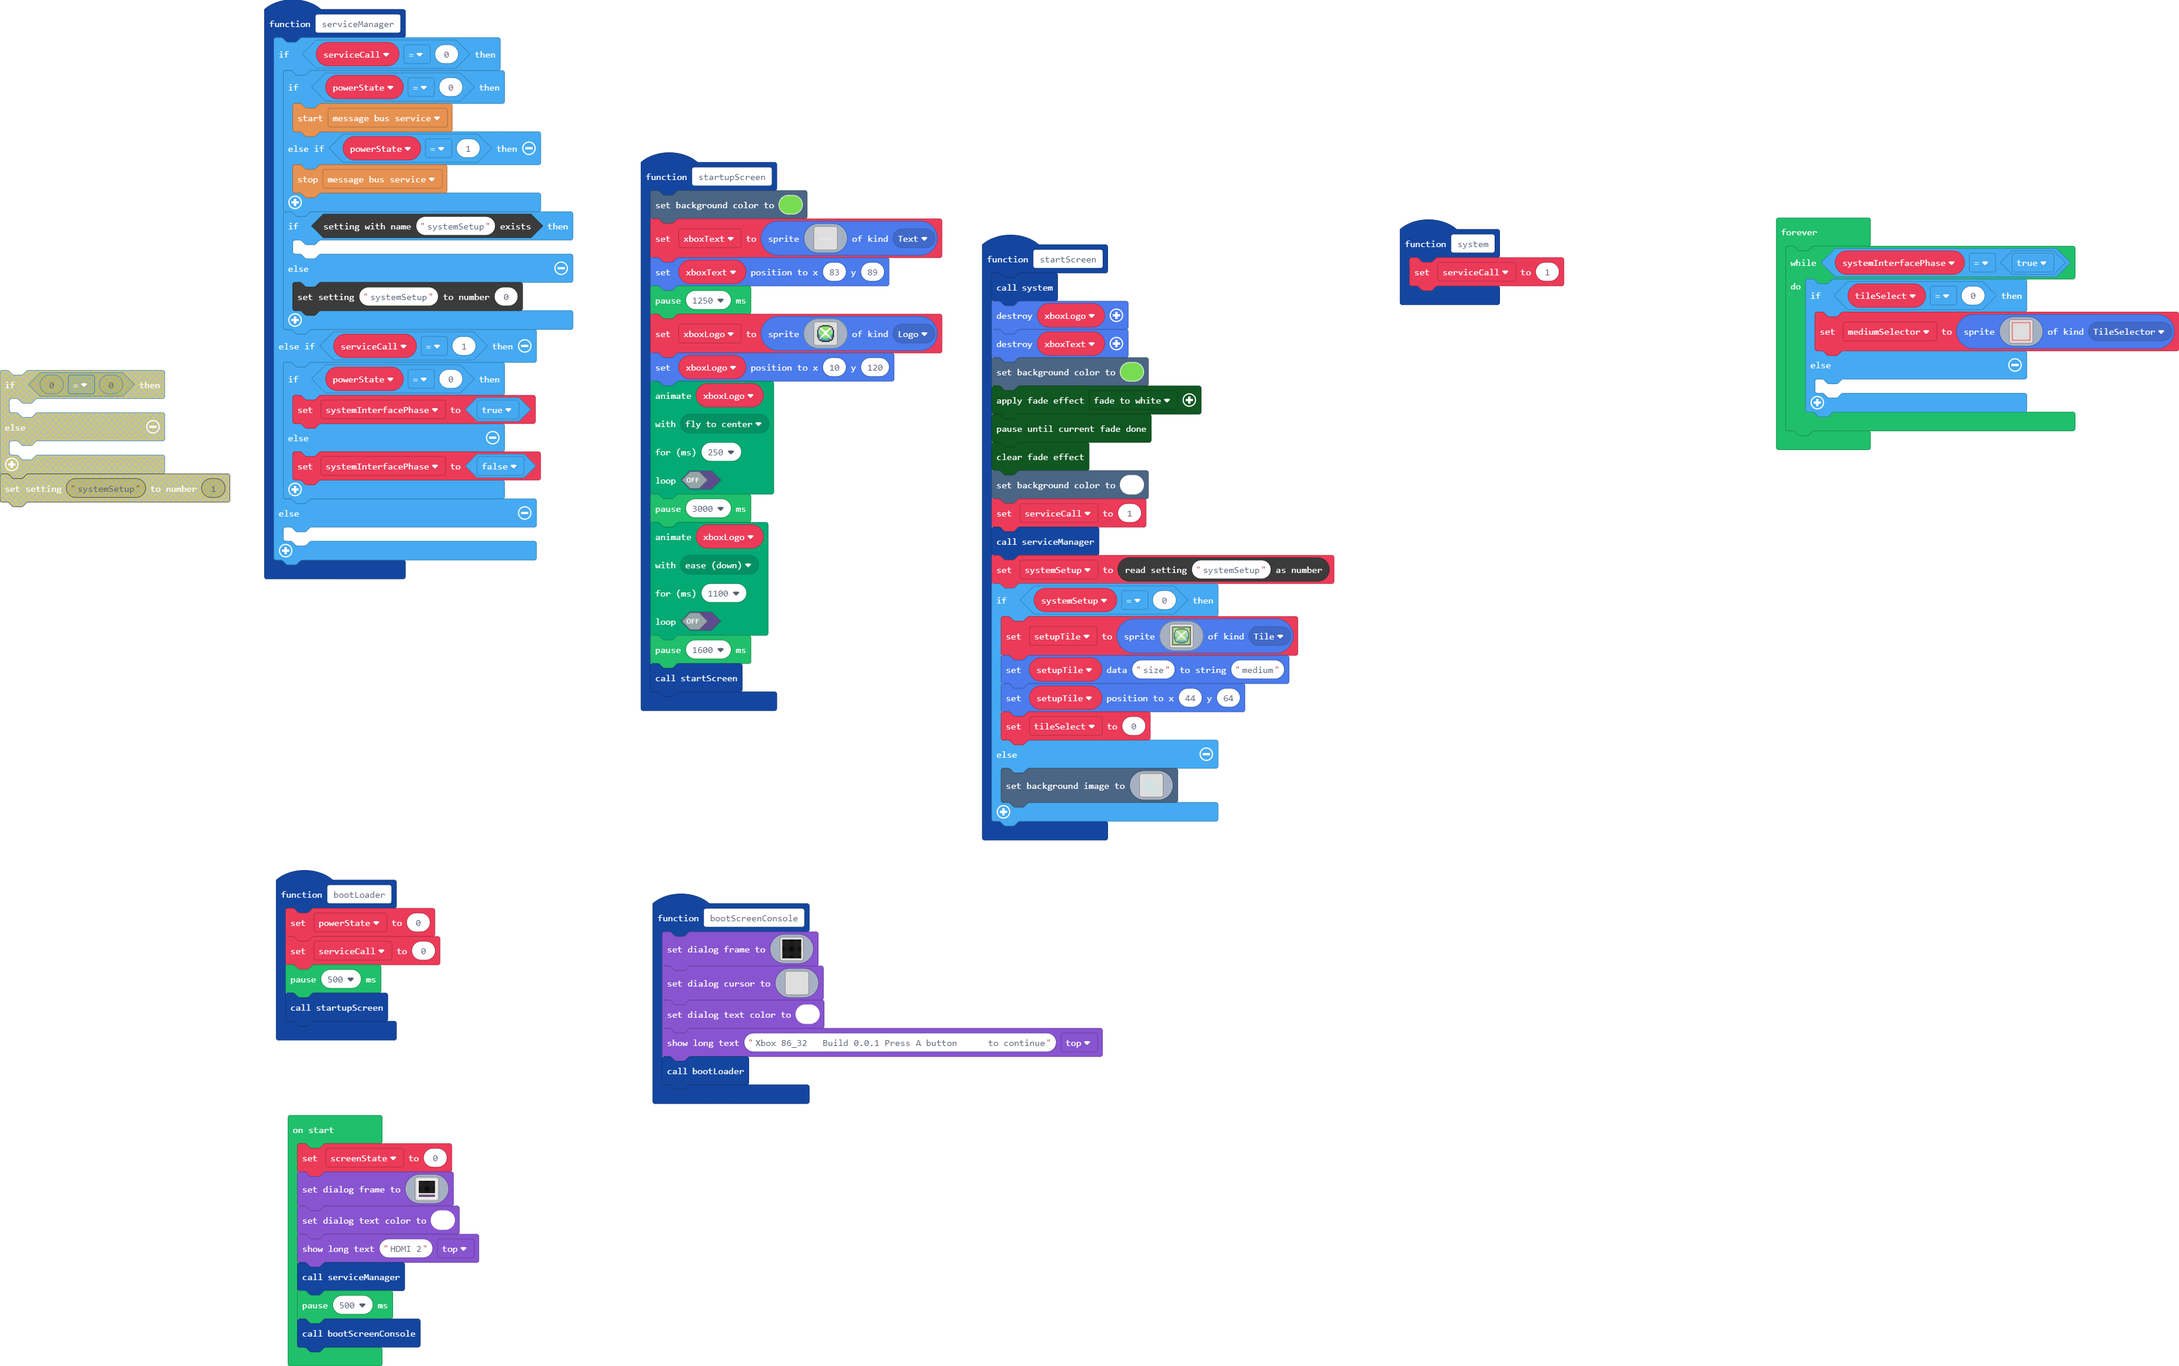
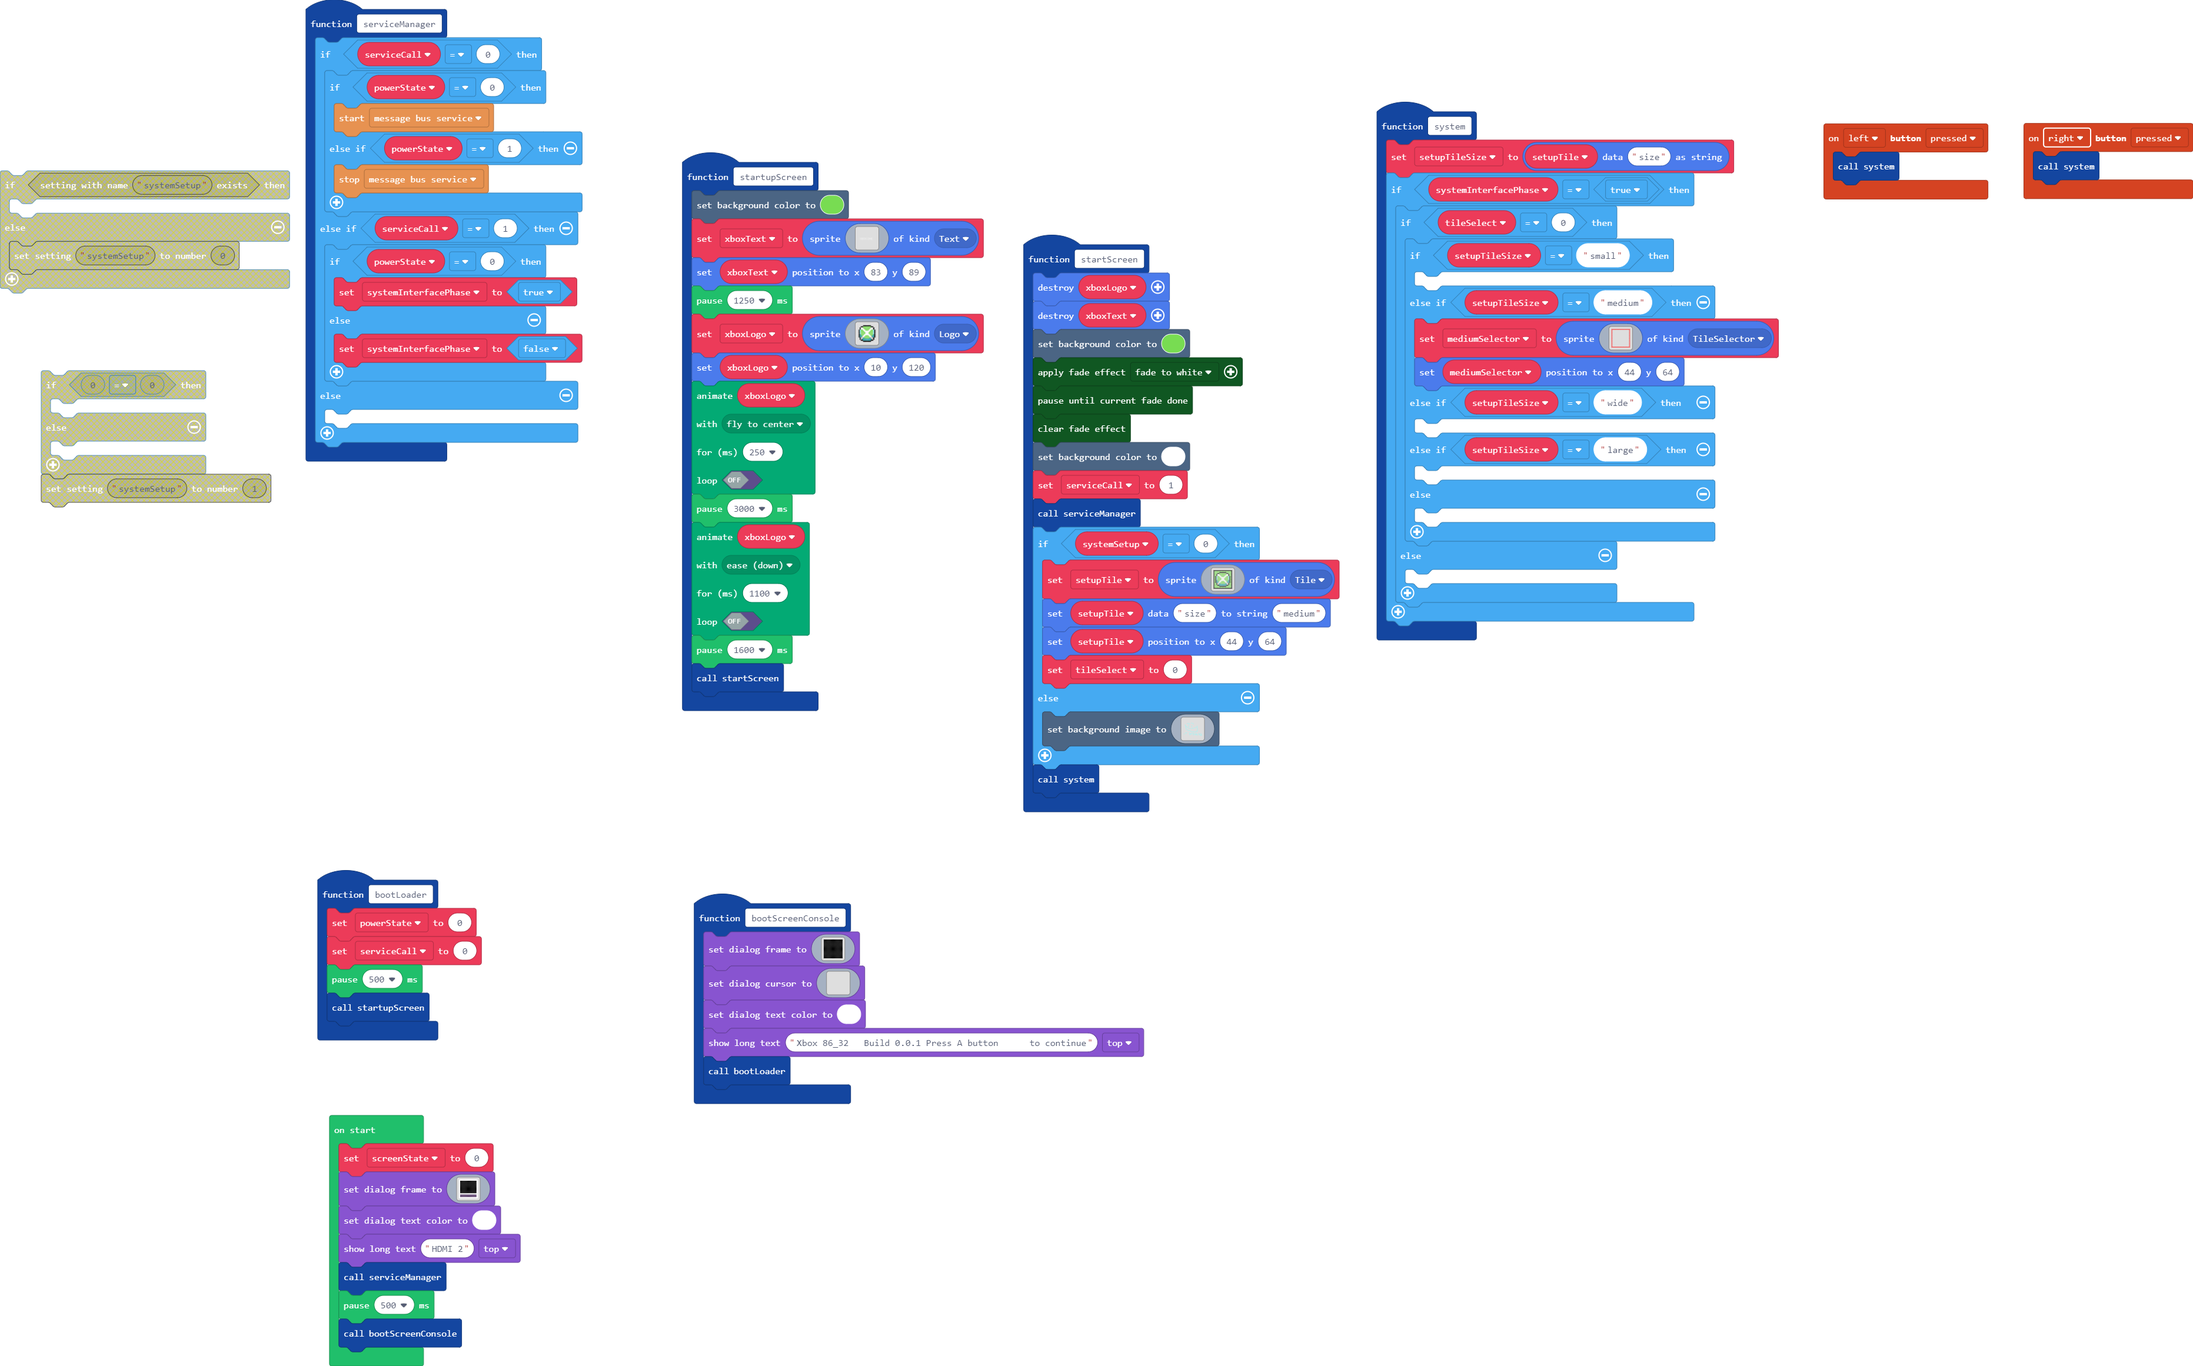
Update main.blocks, main.ts

diff --git a/main.ts b/main.ts
@@ -14,19 +14,93 @@ namespace SpriteKind {
     export const TileSelector = SpriteKind.create()
 }
 function system () {
-    serviceCall = 1
+    setupTileSize = sprites.readDataString(setupTile, "size")
+    if (systemInterfacePhase == true) {
+        if (tileSelect == 0) {
+            if (setupTileSize == "small") {
+            	
+            } else if (setupTileSize == "medium") {
+                mediumSelector = sprites.create(img`
+2 2 2 2 2 2 2 2 2 2 2 2 2 2 2 2 2 2 2 2 2 2 2 2 2 2 2 2 2 2 2 2 2 2 2 2 2 2 2 2 2 2 2 2 2 2 2 2 2 2 2 2 2 2 2 2 2 
+2 2 2 2 2 2 2 2 2 2 2 2 2 2 2 2 2 2 2 2 2 2 2 2 2 2 2 2 2 2 2 2 2 2 2 2 2 2 2 2 2 2 2 2 2 2 2 2 2 2 2 2 2 2 2 2 2 
+2 2 2 2 2 2 2 2 2 2 2 2 2 2 2 2 2 2 2 2 2 2 2 2 2 2 2 2 2 2 2 2 2 2 2 2 2 2 2 2 2 2 2 2 2 2 2 2 2 2 2 2 2 2 2 2 2 
+2 2 2 . . . . . . . . . . . . . . . . . . . . . . . . . . . . . . . . . . . . . . . . . . . . . . . . . . . 2 2 2 
+2 2 2 . . . . . . . . . . . . . . . . . . . . . . . . . . . . . . . . . . . . . . . . . . . . . . . . . . . 2 2 2 
+2 2 2 . . . . . . . . . . . . . . . . . . . . . . . . . . . . . . . . . . . . . . . . . . . . . . . . . . . 2 2 2 
+2 2 2 . . . . . . . . . . . . . . . . . . . . . . . . . . . . . . . . . . . . . . . . . . . . . . . . . . . 2 2 2 
+2 2 2 . . . . . . . . . . . . . . . . . . . . . . . . . . . . . . . . . . . . . . . . . . . . . . . . . . . 2 2 2 
+2 2 2 . . . . . . . . . . . . . . . . . . . . . . . . . . . . . . . . . . . . . . . . . . . . . . . . . . . 2 2 2 
+2 2 2 . . . . . . . . . . . . . . . . . . . . . . . . . . . . . . . . . . . . . . . . . . . . . . . . . . . 2 2 2 
+2 2 2 . . . . . . . . . . . . . . . . . . . . . . . . . . . . . . . . . . . . . . . . . . . . . . . . . . . 2 2 2 
+2 2 2 . . . . . . . . . . . . . . . . . . . . . . . . . . . . . . . . . . . . . . . . . . . . . . . . . . . 2 2 2 
+2 2 2 . . . . . . . . . . . . . . . . . . . . . . . . . . . . . . . . . . . . . . . . . . . . . . . . . . . 2 2 2 
+2 2 2 . . . . . . . . . . . . . . . . . . . . . . . . . . . . . . . . . . . . . . . . . . . . . . . . . . . 2 2 2 
+2 2 2 . . . . . . . . . . . . . . . . . . . . . . . . . . . . . . . . . . . . . . . . . . . . . . . . . . . 2 2 2 
+2 2 2 . . . . . . . . . . . . . . . . . . . . . . . . . . . . . . . . . . . . . . . . . . . . . . . . . . . 2 2 2 
+2 2 2 . . . . . . . . . . . . . . . . . . . . . . . . . . . . . . . . . . . . . . . . . . . . . . . . . . . 2 2 2 
+2 2 2 . . . . . . . . . . . . . . . . . . . . . . . . . . . . . . . . . . . . . . . . . . . . . . . . . . . 2 2 2 
+2 2 2 . . . . . . . . . . . . . . . . . . . . . . . . . . . . . . . . . . . . . . . . . . . . . . . . . . . 2 2 2 
+2 2 2 . . . . . . . . . . . . . . . . . . . . . . . . . . . . . . . . . . . . . . . . . . . . . . . . . . . 2 2 2 
+2 2 2 . . . . . . . . . . . . . . . . . . . . . . . . . . . . . . . . . . . . . . . . . . . . . . . . . . . 2 2 2 
+2 2 2 . . . . . . . . . . . . . . . . . . . . . . . . . . . . . . . . . . . . . . . . . . . . . . . . . . . 2 2 2 
+2 2 2 . . . . . . . . . . . . . . . . . . . . . . . . . . . . . . . . . . . . . . . . . . . . . . . . . . . 2 2 2 
+2 2 2 . . . . . . . . . . . . . . . . . . . . . . . . . . . . . . . . . . . . . . . . . . . . . . . . . . . 2 2 2 
+2 2 2 . . . . . . . . . . . . . . . . . . . . . . . . . . . . . . . . . . . . . . . . . . . . . . . . . . . 2 2 2 
+2 2 2 . . . . . . . . . . . . . . . . . . . . . . . . . . . . . . . . . . . . . . . . . . . . . . . . . . . 2 2 2 
+2 2 2 . . . . . . . . . . . . . . . . . . . . . . . . . . . . . . . . . . . . . . . . . . . . . . . . . . . 2 2 2 
+2 2 2 . . . . . . . . . . . . . . . . . . . . . . . . . . . . . . . . . . . . . . . . . . . . . . . . . . . 2 2 2 
+2 2 2 . . . . . . . . . . . . . . . . . . . . . . . . . . . . . . . . . . . . . . . . . . . . . . . . . . . 2 2 2 
+2 2 2 . . . . . . . . . . . . . . . . . . . . . . . . . . . . . . . . . . . . . . . . . . . . . . . . . . . 2 2 2 
+2 2 2 . . . . . . . . . . . . . . . . . . . . . . . . . . . . . . . . . . . . . . . . . . . . . . . . . . . 2 2 2 
+2 2 2 . . . . . . . . . . . . . . . . . . . . . . . . . . . . . . . . . . . . . . . . . . . . . . . . . . . 2 2 2 
+2 2 2 . . . . . . . . . . . . . . . . . . . . . . . . . . . . . . . . . . . . . . . . . . . . . . . . . . . 2 2 2 
+2 2 2 . . . . . . . . . . . . . . . . . . . . . . . . . . . . . . . . . . . . . . . . . . . . . . . . . . . 2 2 2 
+2 2 2 . . . . . . . . . . . . . . . . . . . . . . . . . . . . . . . . . . . . . . . . . . . . . . . . . . . 2 2 2 
+2 2 2 . . . . . . . . . . . . . . . . . . . . . . . . . . . . . . . . . . . . . . . . . . . . . . . . . . . 2 2 2 
+2 2 2 . . . . . . . . . . . . . . . . . . . . . . . . . . . . . . . . . . . . . . . . . . . . . . . . . . . 2 2 2 
+2 2 2 . . . . . . . . . . . . . . . . . . . . . . . . . . . . . . . . . . . . . . . . . . . . . . . . . . . 2 2 2 
+2 2 2 . . . . . . . . . . . . . . . . . . . . . . . . . . . . . . . . . . . . . . . . . . . . . . . . . . . 2 2 2 
+2 2 2 . . . . . . . . . . . . . . . . . . . . . . . . . . . . . . . . . . . . . . . . . . . . . . . . . . . 2 2 2 
+2 2 2 . . . . . . . . . . . . . . . . . . . . . . . . . . . . . . . . . . . . . . . . . . . . . . . . . . . 2 2 2 
+2 2 2 . . . . . . . . . . . . . . . . . . . . . . . . . . . . . . . . . . . . . . . . . . . . . . . . . . . 2 2 2 
+2 2 2 . . . . . . . . . . . . . . . . . . . . . . . . . . . . . . . . . . . . . . . . . . . . . . . . . . . 2 2 2 
+2 2 2 . . . . . . . . . . . . . . . . . . . . . . . . . . . . . . . . . . . . . . . . . . . . . . . . . . . 2 2 2 
+2 2 2 . . . . . . . . . . . . . . . . . . . . . . . . . . . . . . . . . . . . . . . . . . . . . . . . . . . 2 2 2 
+2 2 2 . . . . . . . . . . . . . . . . . . . . . . . . . . . . . . . . . . . . . . . . . . . . . . . . . . . 2 2 2 
+2 2 2 . . . . . . . . . . . . . . . . . . . . . . . . . . . . . . . . . . . . . . . . . . . . . . . . . . . 2 2 2 
+2 2 2 . . . . . . . . . . . . . . . . . . . . . . . . . . . . . . . . . . . . . . . . . . . . . . . . . . . 2 2 2 
+2 2 2 . . . . . . . . . . . . . . . . . . . . . . . . . . . . . . . . . . . . . . . . . . . . . . . . . . . 2 2 2 
+2 2 2 . . . . . . . . . . . . . . . . . . . . . . . . . . . . . . . . . . . . . . . . . . . . . . . . . . . 2 2 2 
+2 2 2 . . . . . . . . . . . . . . . . . . . . . . . . . . . . . . . . . . . . . . . . . . . . . . . . . . . 2 2 2 
+2 2 2 . . . . . . . . . . . . . . . . . . . . . . . . . . . . . . . . . . . . . . . . . . . . . . . . . . . 2 2 2 
+2 2 2 . . . . . . . . . . . . . . . . . . . . . . . . . . . . . . . . . . . . . . . . . . . . . . . . . . . 2 2 2 
+2 2 2 . . . . . . . . . . . . . . . . . . . . . . . . . . . . . . . . . . . . . . . . . . . . . . . . . . . 2 2 2 
+2 2 2 2 2 2 2 2 2 2 2 2 2 2 2 2 2 2 2 2 2 2 2 2 2 2 2 2 2 2 2 2 2 2 2 2 2 2 2 2 2 2 2 2 2 2 2 2 2 2 2 2 2 2 2 2 2 
+2 2 2 2 2 2 2 2 2 2 2 2 2 2 2 2 2 2 2 2 2 2 2 2 2 2 2 2 2 2 2 2 2 2 2 2 2 2 2 2 2 2 2 2 2 2 2 2 2 2 2 2 2 2 2 2 2 
+2 2 2 2 2 2 2 2 2 2 2 2 2 2 2 2 2 2 2 2 2 2 2 2 2 2 2 2 2 2 2 2 2 2 2 2 2 2 2 2 2 2 2 2 2 2 2 2 2 2 2 2 2 2 2 2 2 
+`, SpriteKind.TileSelector)
+                mediumSelector.setPosition(44, 64)
+            } else if (setupTileSize == "wide") {
+            	
+            } else if (setupTileSize == "large") {
+            	
+            } else {
+            	
+            }
+        } else {
+        	
+        }
+    }
 }
+controller.left.onEvent(ControllerButtonEvent.Pressed, function () {
+    system()
+})
 function serviceManager () {
     if (serviceCall == 0) {
         if (powerState == 0) {
             jacdac.messageBusService.start()
         } else if (powerState == 1) {
             jacdac.messageBusService.stop()
-        }
-        if (blockSettings.exists("systemSetup")) {
-        	
-        } else {
-            blockSettings.writeNumber("systemSetup", 0)
         }
     } else if (serviceCall == 1) {
         if (powerState == 0) {
@@ -45,7 +119,7 @@ function bootLoader () {
     startupScreen()
 }
 function startScreen () {
-    system()
+    let systemSetup = 0
     xboxLogo.destroy()
     xboxText.destroy()
     scene.setBackgroundColor(7)
@@ -55,7 +129,6 @@ function startScreen () {
     scene.setBackgroundColor(1)
     serviceCall = 1
     serviceManager()
-    systemSetup = blockSettings.readNumber("systemSetup")
     if (systemSetup == 0) {
         setupTile = sprites.create(img`
 f f f f f f f f f f f f f f f f f f f f f f f f f f f f f f f f f f f f f f f f f f f f f f f f f f f f f f f f f 
@@ -243,7 +316,11 @@ f f f f f f f f f f f f f f f f f f f f f f f f f f f f f f f f f f f f f f f f 
 . . . . . . . . . . . . . . . . . . . . . . . . . . . . . . . . . . . . . . . . . . . . . . . . . . . . . . . . . . . . . . . . . . . . . . . . . . . . . . . . . . . . . . . . . . . . . . . . . . . . . . . . . . . . . . . . . . . . . . . . . . . . . . . . . . . . . . . . . . . . . . . . . . . . . . . . . . . . . . . . 
 `)
     }
+    system()
 }
+controller.right.onEvent(ControllerButtonEvent.Pressed, function () {
+    system()
+})
 function startupScreen () {
     scene.setBackgroundColor(7)
     xboxText = sprites.create(img`
@@ -359,15 +436,15 @@ f f f f f f f f f f f f f f f
     game.showLongText("Xbox 86_32   Build 0.0.1 Press A button      to continue", DialogLayout.Top)
     bootLoader()
 }
-let mediumSelector: Sprite = null
-let tileSelect = 0
-let setupTile: Sprite = null
-let systemSetup = 0
 let xboxText: Sprite = null
 let xboxLogo: Sprite = null
-let systemInterfacePhase = false
 let powerState = 0
 let serviceCall = 0
+let mediumSelector: Sprite = null
+let tileSelect = 0
+let systemInterfacePhase = false
+let setupTile: Sprite = null
+let setupTileSize = ""
 let screenState = 0
 game.setDialogFrame(img`
 1 1 1 1 1 1 1 1 1 1 1 1 1 1 1 
@@ -391,70 +468,3 @@ game.showLongText("HDMI 2", DialogLayout.Top)
 serviceManager()
 pause(500)
 bootScreenConsole()
-forever(function () {
-    while (systemInterfacePhase == true) {
-        if (tileSelect == 0) {
-            mediumSelector = sprites.create(img`
-2 2 2 2 2 2 2 2 2 2 2 2 2 2 2 2 2 2 2 2 2 2 2 2 2 2 2 2 2 2 2 2 2 2 2 2 2 2 2 2 2 2 2 2 2 2 2 2 2 2 2 2 2 2 2 2 2 
-2 2 2 2 2 2 2 2 2 2 2 2 2 2 2 2 2 2 2 2 2 2 2 2 2 2 2 2 2 2 2 2 2 2 2 2 2 2 2 2 2 2 2 2 2 2 2 2 2 2 2 2 2 2 2 2 2 
-2 2 2 2 2 2 2 2 2 2 2 2 2 2 2 2 2 2 2 2 2 2 2 2 2 2 2 2 2 2 2 2 2 2 2 2 2 2 2 2 2 2 2 2 2 2 2 2 2 2 2 2 2 2 2 2 2 
-2 2 2 . . . . . . . . . . . . . . . . . . . . . . . . . . . . . . . . . . . . . . . . . . . . . . . . . . . 2 2 2 
-2 2 2 . . . . . . . . . . . . . . . . . . . . . . . . . . . . . . . . . . . . . . . . . . . . . . . . . . . 2 2 2 
-2 2 2 . . . . . . . . . . . . . . . . . . . . . . . . . . . . . . . . . . . . . . . . . . . . . . . . . . . 2 2 2 
-2 2 2 . . . . . . . . . . . . . . . . . . . . . . . . . . . . . . . . . . . . . . . . . . . . . . . . . . . 2 2 2 
-2 2 2 . . . . . . . . . . . . . . . . . . . . . . . . . . . . . . . . . . . . . . . . . . . . . . . . . . . 2 2 2 
-2 2 2 . . . . . . . . . . . . . . . . . . . . . . . . . . . . . . . . . . . . . . . . . . . . . . . . . . . 2 2 2 
-2 2 2 . . . . . . . . . . . . . . . . . . . . . . . . . . . . . . . . . . . . . . . . . . . . . . . . . . . 2 2 2 
-2 2 2 . . . . . . . . . . . . . . . . . . . . . . . . . . . . . . . . . . . . . . . . . . . . . . . . . . . 2 2 2 
-2 2 2 . . . . . . . . . . . . . . . . . . . . . . . . . . . . . . . . . . . . . . . . . . . . . . . . . . . 2 2 2 
-2 2 2 . . . . . . . . . . . . . . . . . . . . . . . . . . . . . . . . . . . . . . . . . . . . . . . . . . . 2 2 2 
-2 2 2 . . . . . . . . . . . . . . . . . . . . . . . . . . . . . . . . . . . . . . . . . . . . . . . . . . . 2 2 2 
-2 2 2 . . . . . . . . . . . . . . . . . . . . . . . . . . . . . . . . . . . . . . . . . . . . . . . . . . . 2 2 2 
-2 2 2 . . . . . . . . . . . . . . . . . . . . . . . . . . . . . . . . . . . . . . . . . . . . . . . . . . . 2 2 2 
-2 2 2 . . . . . . . . . . . . . . . . . . . . . . . . . . . . . . . . . . . . . . . . . . . . . . . . . . . 2 2 2 
-2 2 2 . . . . . . . . . . . . . . . . . . . . . . . . . . . . . . . . . . . . . . . . . . . . . . . . . . . 2 2 2 
-2 2 2 . . . . . . . . . . . . . . . . . . . . . . . . . . . . . . . . . . . . . . . . . . . . . . . . . . . 2 2 2 
-2 2 2 . . . . . . . . . . . . . . . . . . . . . . . . . . . . . . . . . . . . . . . . . . . . . . . . . . . 2 2 2 
-2 2 2 . . . . . . . . . . . . . . . . . . . . . . . . . . . . . . . . . . . . . . . . . . . . . . . . . . . 2 2 2 
-2 2 2 . . . . . . . . . . . . . . . . . . . . . . . . . . . . . . . . . . . . . . . . . . . . . . . . . . . 2 2 2 
-2 2 2 . . . . . . . . . . . . . . . . . . . . . . . . . . . . . . . . . . . . . . . . . . . . . . . . . . . 2 2 2 
-2 2 2 . . . . . . . . . . . . . . . . . . . . . . . . . . . . . . . . . . . . . . . . . . . . . . . . . . . 2 2 2 
-2 2 2 . . . . . . . . . . . . . . . . . . . . . . . . . . . . . . . . . . . . . . . . . . . . . . . . . . . 2 2 2 
-2 2 2 . . . . . . . . . . . . . . . . . . . . . . . . . . . . . . . . . . . . . . . . . . . . . . . . . . . 2 2 2 
-2 2 2 . . . . . . . . . . . . . . . . . . . . . . . . . . . . . . . . . . . . . . . . . . . . . . . . . . . 2 2 2 
-2 2 2 . . . . . . . . . . . . . . . . . . . . . . . . . . . . . . . . . . . . . . . . . . . . . . . . . . . 2 2 2 
-2 2 2 . . . . . . . . . . . . . . . . . . . . . . . . . . . . . . . . . . . . . . . . . . . . . . . . . . . 2 2 2 
-2 2 2 . . . . . . . . . . . . . . . . . . . . . . . . . . . . . . . . . . . . . . . . . . . . . . . . . . . 2 2 2 
-2 2 2 . . . . . . . . . . . . . . . . . . . . . . . . . . . . . . . . . . . . . . . . . . . . . . . . . . . 2 2 2 
-2 2 2 . . . . . . . . . . . . . . . . . . . . . . . . . . . . . . . . . . . . . . . . . . . . . . . . . . . 2 2 2 
-2 2 2 . . . . . . . . . . . . . . . . . . . . . . . . . . . . . . . . . . . . . . . . . . . . . . . . . . . 2 2 2 
-2 2 2 . . . . . . . . . . . . . . . . . . . . . . . . . . . . . . . . . . . . . . . . . . . . . . . . . . . 2 2 2 
-2 2 2 . . . . . . . . . . . . . . . . . . . . . . . . . . . . . . . . . . . . . . . . . . . . . . . . . . . 2 2 2 
-2 2 2 . . . . . . . . . . . . . . . . . . . . . . . . . . . . . . . . . . . . . . . . . . . . . . . . . . . 2 2 2 
-2 2 2 . . . . . . . . . . . . . . . . . . . . . . . . . . . . . . . . . . . . . . . . . . . . . . . . . . . 2 2 2 
-2 2 2 . . . . . . . . . . . . . . . . . . . . . . . . . . . . . . . . . . . . . . . . . . . . . . . . . . . 2 2 2 
-2 2 2 . . . . . . . . . . . . . . . . . . . . . . . . . . . . . . . . . . . . . . . . . . . . . . . . . . . 2 2 2 
-2 2 2 . . . . . . . . . . . . . . . . . . . . . . . . . . . . . . . . . . . . . . . . . . . . . . . . . . . 2 2 2 
-2 2 2 . . . . . . . . . . . . . . . . . . . . . . . . . . . . . . . . . . . . . . . . . . . . . . . . . . . 2 2 2 
-2 2 2 . . . . . . . . . . . . . . . . . . . . . . . . . . . . . . . . . . . . . . . . . . . . . . . . . . . 2 2 2 
-2 2 2 . . . . . . . . . . . . . . . . . . . . . . . . . . . . . . . . . . . . . . . . . . . . . . . . . . . 2 2 2 
-2 2 2 . . . . . . . . . . . . . . . . . . . . . . . . . . . . . . . . . . . . . . . . . . . . . . . . . . . 2 2 2 
-2 2 2 . . . . . . . . . . . . . . . . . . . . . . . . . . . . . . . . . . . . . . . . . . . . . . . . . . . 2 2 2 
-2 2 2 . . . . . . . . . . . . . . . . . . . . . . . . . . . . . . . . . . . . . . . . . . . . . . . . . . . 2 2 2 
-2 2 2 . . . . . . . . . . . . . . . . . . . . . . . . . . . . . . . . . . . . . . . . . . . . . . . . . . . 2 2 2 
-2 2 2 . . . . . . . . . . . . . . . . . . . . . . . . . . . . . . . . . . . . . . . . . . . . . . . . . . . 2 2 2 
-2 2 2 . . . . . . . . . . . . . . . . . . . . . . . . . . . . . . . . . . . . . . . . . . . . . . . . . . . 2 2 2 
-2 2 2 . . . . . . . . . . . . . . . . . . . . . . . . . . . . . . . . . . . . . . . . . . . . . . . . . . . 2 2 2 
-2 2 2 . . . . . . . . . . . . . . . . . . . . . . . . . . . . . . . . . . . . . . . . . . . . . . . . . . . 2 2 2 
-2 2 2 . . . . . . . . . . . . . . . . . . . . . . . . . . . . . . . . . . . . . . . . . . . . . . . . . . . 2 2 2 
-2 2 2 . . . . . . . . . . . . . . . . . . . . . . . . . . . . . . . . . . . . . . . . . . . . . . . . . . . 2 2 2 
-2 2 2 . . . . . . . . . . . . . . . . . . . . . . . . . . . . . . . . . . . . . . . . . . . . . . . . . . . 2 2 2 
-2 2 2 2 2 2 2 2 2 2 2 2 2 2 2 2 2 2 2 2 2 2 2 2 2 2 2 2 2 2 2 2 2 2 2 2 2 2 2 2 2 2 2 2 2 2 2 2 2 2 2 2 2 2 2 2 2 
-2 2 2 2 2 2 2 2 2 2 2 2 2 2 2 2 2 2 2 2 2 2 2 2 2 2 2 2 2 2 2 2 2 2 2 2 2 2 2 2 2 2 2 2 2 2 2 2 2 2 2 2 2 2 2 2 2 
-2 2 2 2 2 2 2 2 2 2 2 2 2 2 2 2 2 2 2 2 2 2 2 2 2 2 2 2 2 2 2 2 2 2 2 2 2 2 2 2 2 2 2 2 2 2 2 2 2 2 2 2 2 2 2 2 2 
-`, SpriteKind.TileSelector)
-        } else {
-        	
-        }
-    }
-})
